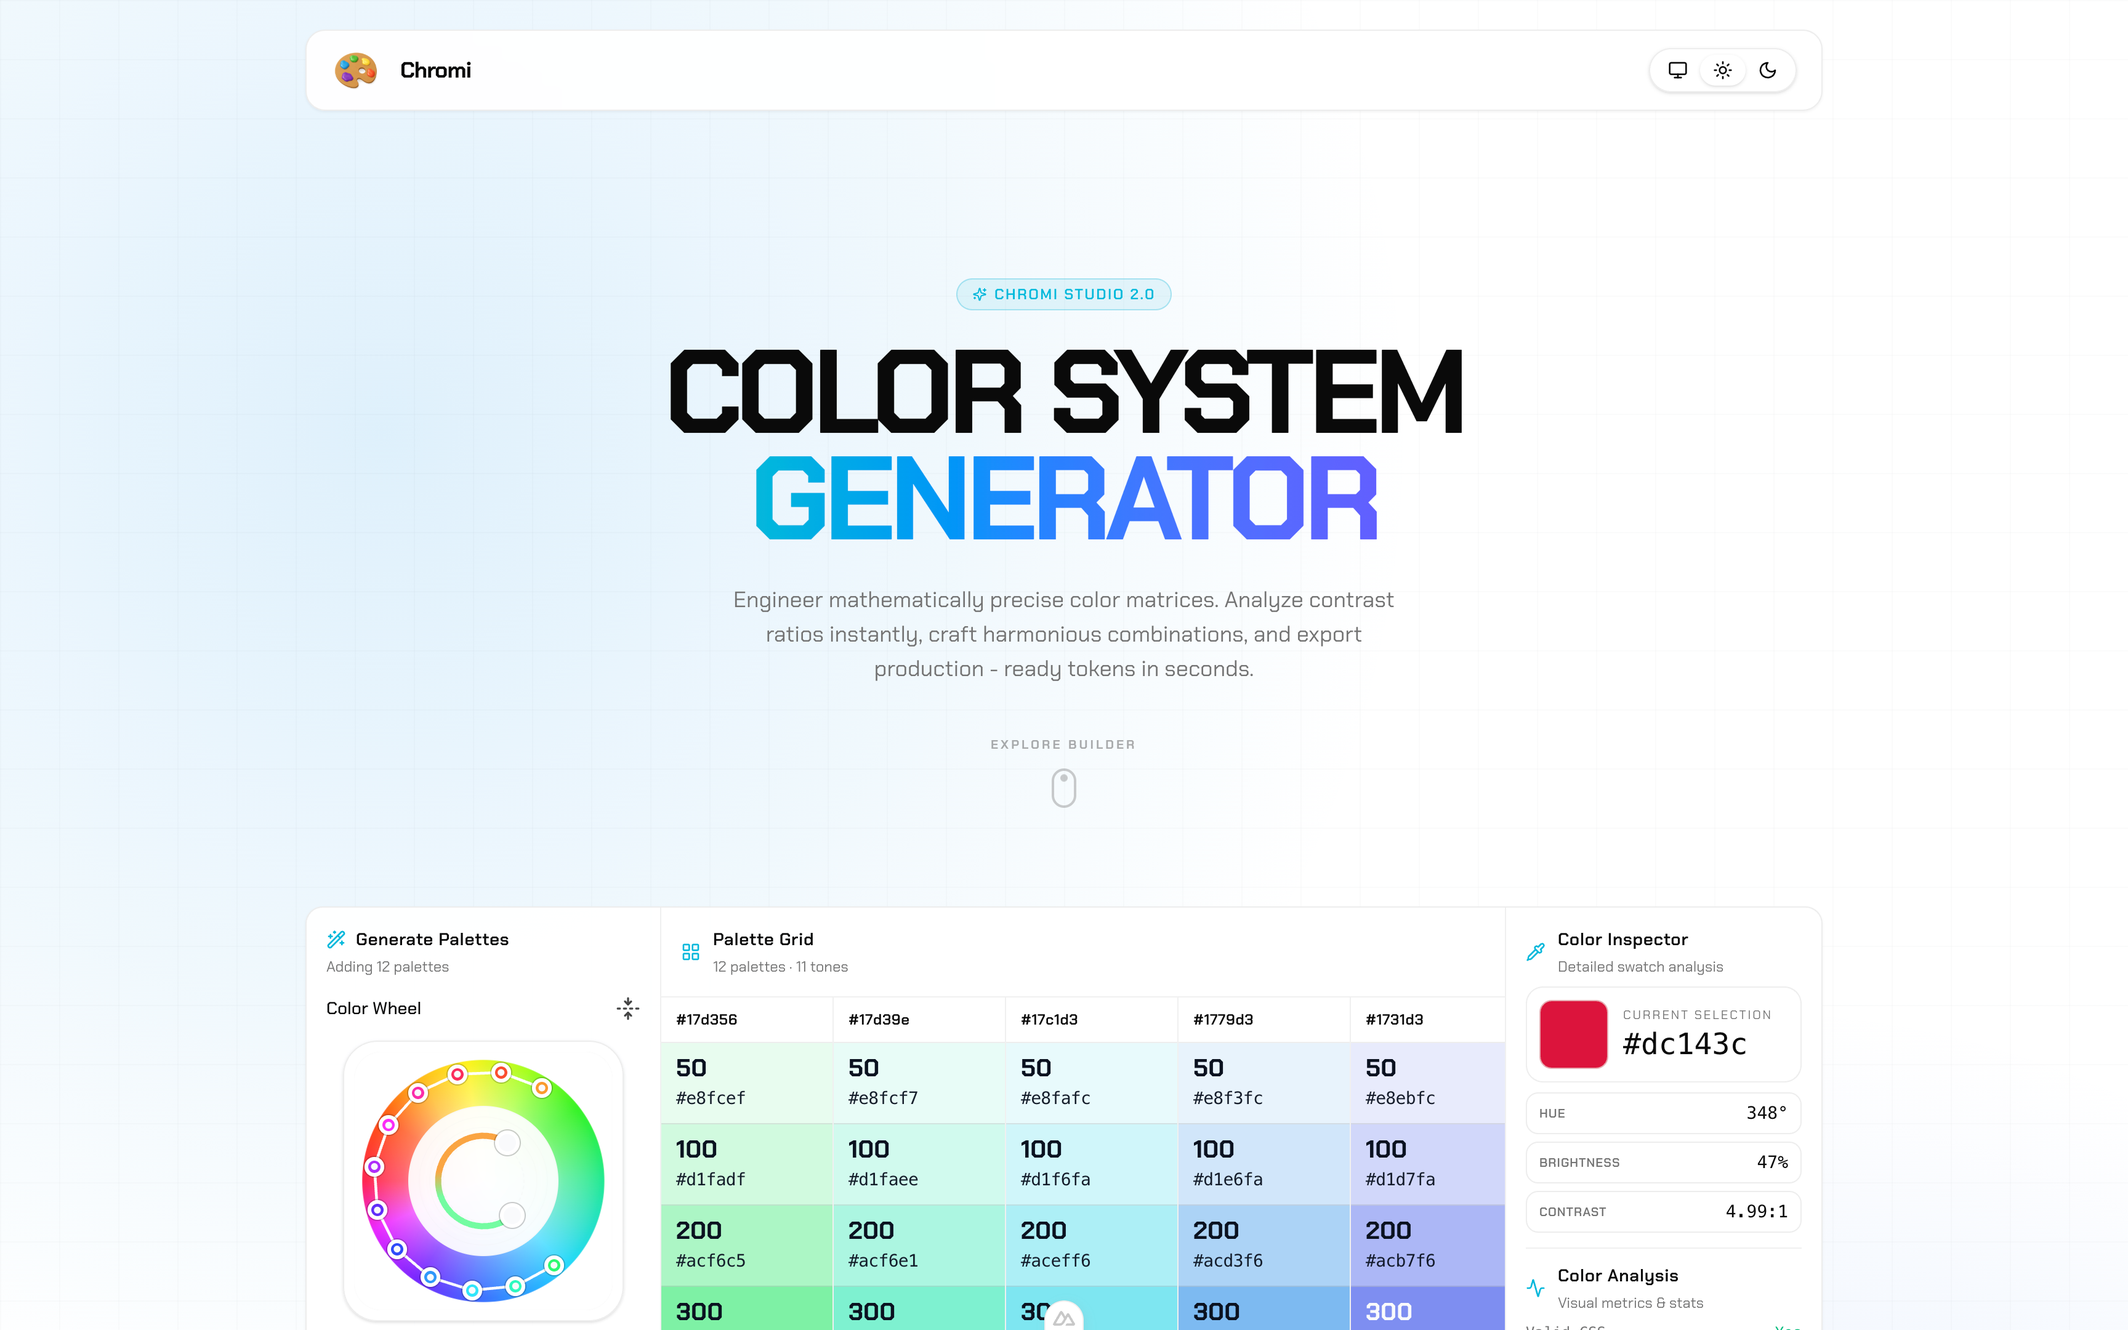
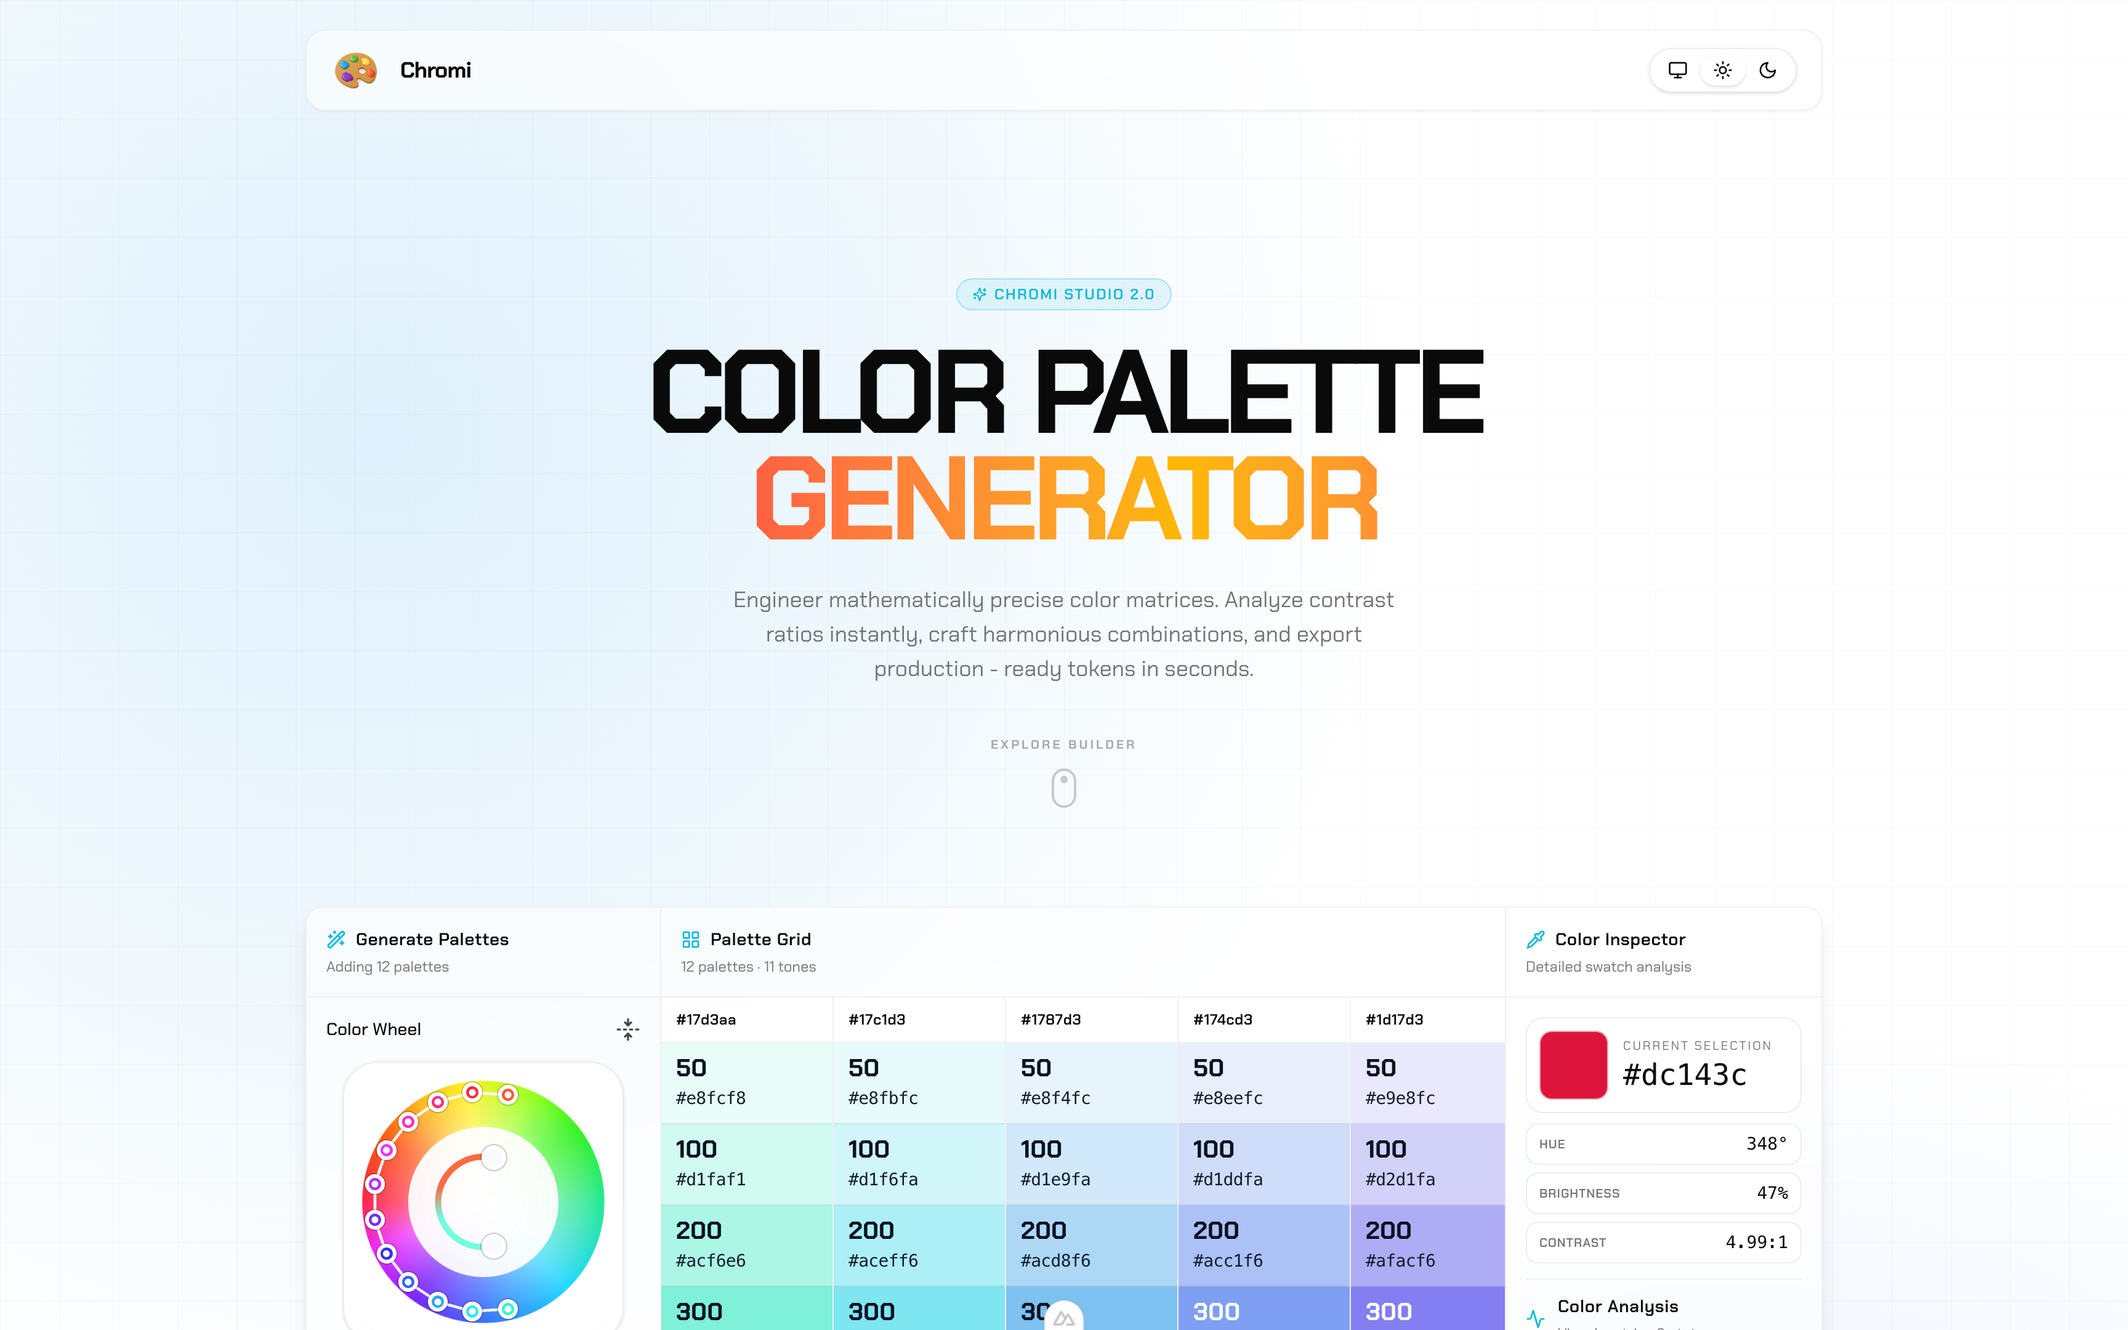
feat: add rainbow shimmer animation and improve UI component styles for better accessibility

diff --git a/app/components/palette/PaletteLeftSidebar.vue b/app/components/palette/PaletteLeftSidebar.vue
@@ -88,40 +88,42 @@
         <div class="space-y-4">
           <div class="grid gap-3 sm:grid-cols-2">
             <div>
-              <label class="mb-1 block text-xs font-medium text-foreground">Hue Start</label>
+              <label for="palette-hue-start" class="mb-1 block text-xs font-medium text-foreground">Hue Start</label>
               <div class="grid grid-cols-[1fr_auto] gap-2">
-                <InputGroup class="h-9 rounded-lg bg-background/70 shadow-sm transition-shadow hover:shadow-md">
-                  <Input :model-value="safeHueStart.toFixed(1)"
-                    class="h-9 rounded-lg border-0 bg-transparent px-2.5 text-sm shadow-none focus-visible:ring-0"
+                <InputGroup class="h-11 rounded-lg bg-background/70 shadow-sm transition-shadow hover:shadow-md">
+                  <Input id="palette-hue-start" :model-value="safeHueStart.toFixed(1)"
+                    class="h-11 rounded-lg border-0 bg-transparent px-2.5 text-sm shadow-none focus-visible:ring-0"
                     @update:model-value="onHueStartInput" />
                 </InputGroup>
-                <div class="grid h-9 w-9 overflow-hidden rounded-lg border border-border/70 bg-background/65 shadow-sm">
-                  <Button variant="ghost" size="icon" class="h-[17px] w-9 rounded-none border-b border-border/70 group"
-                    @click="nudgeHueStart(0.1)">
+                <div
+                  class="grid h-11 w-11 overflow-hidden rounded-lg border border-border/70 bg-background/65 shadow-sm">
+                  <Button variant="ghost" size="icon" aria-label="Increase Hue Start"
+                    class="h-[22px] w-11 rounded-none border-b border-border/70 group" @click="nudgeHueStart(0.1)">
                     <ChevronUp class="h-3 w-3 opacity-70 group-hover:opacity-100" />
                   </Button>
-                  <Button variant="ghost" size="icon" class="h-[17px] w-9 rounded-none group"
-                    @click="nudgeHueStart(-0.1)">
+                  <Button variant="ghost" size="icon" aria-label="Decrease Hue Start"
+                    class="h-[21px] w-11 rounded-none group" @click="nudgeHueStart(-0.1)">
                     <ChevronDown class="h-3 w-3 opacity-70 group-hover:opacity-100" />
                   </Button>
                 </div>
               </div>
             </div>
             <div>
-              <label class="mb-1 block text-xs font-medium text-foreground">Hue End</label>
+              <label for="palette-hue-end" class="mb-1 block text-xs font-medium text-foreground">Hue End</label>
               <div class="grid grid-cols-[1fr_auto] gap-2">
-                <InputGroup class="h-9 rounded-lg bg-background/70 shadow-sm transition-shadow hover:shadow-md">
-                  <Input :model-value="safeHueEnd.toFixed(1)"
-                    class="h-9 rounded-lg border-0 bg-transparent px-2.5 text-sm shadow-none focus-visible:ring-0"
+                <InputGroup class="h-11 rounded-lg bg-background/70 shadow-sm transition-shadow hover:shadow-md">
+                  <Input id="palette-hue-end" :model-value="safeHueEnd.toFixed(1)"
+                    class="h-11 rounded-lg border-0 bg-transparent px-2.5 text-sm shadow-none focus-visible:ring-0"
                     @update:model-value="onHueEndInput" />
                 </InputGroup>
-                <div class="grid h-9 w-9 overflow-hidden rounded-lg border border-border/70 bg-background/65 shadow-sm">
-                  <Button variant="ghost" size="icon" class="h-[17px] w-9 rounded-none border-b border-border/70 group"
-                    @click="nudgeHueEnd(0.1)">
+                <div
+                  class="grid h-11 w-11 overflow-hidden rounded-lg border border-border/70 bg-background/65 shadow-sm">
+                  <Button variant="ghost" size="icon" aria-label="Increase Hue End"
+                    class="h-[22px] w-11 rounded-none border-b border-border/70 group" @click="nudgeHueEnd(0.1)">
                     <ChevronUp class="h-3 w-3 opacity-70 group-hover:opacity-100" />
                   </Button>
-                  <Button variant="ghost" size="icon" class="h-[17px] w-9 rounded-none group"
-                    @click="nudgeHueEnd(-0.1)">
+                  <Button variant="ghost" size="icon" aria-label="Decrease Hue End"
+                    class="h-[21px] w-11 rounded-none group" @click="nudgeHueEnd(-0.1)">
                     <ChevronDown class="h-3 w-3 opacity-70 group-hover:opacity-100" />
                   </Button>
                 </div>
@@ -130,17 +132,19 @@
           </div>
 
           <div>
-            <label class="mb-2 block text-xs font-medium text-foreground">Saturation ({{ safeSaturation }}%)</label>
-            <Slider :model-value="[safeSaturation]" :min="0" :max="100" :step="1" class="w-full"
-              @update:model-value="onSaturationChange" />
+            <label id="palette-saturation-label" class="mb-2 block text-xs font-medium text-foreground">Saturation ({{
+              safeSaturation }}%)</label>
+            <Slider aria-labelledby="palette-saturation-label" :model-value="[safeSaturation]" :min="0" :max="100"
+              :step="1" class="w-full" @update:model-value="onSaturationChange" />
             <p class="mt-2 text-[10px] text-muted-foreground leading-tight">Adjust all chromas uniformly across columns.
             </p>
           </div>
 
           <div class="border-t border-border/60 pt-3">
-            <label class="mb-2 block text-xs font-medium text-foreground">Variations ({{ safeVariations }})</label>
-            <Slider :model-value="[safeVariations]" :min="2" :max="MAX_VARIATIONS" :step="1" class="w-full"
-              @update:model-value="onVariationsChange" />
+            <label id="palette-variations-label" class="mb-2 block text-xs font-medium text-foreground">Variations ({{
+              safeVariations }})</label>
+            <Slider aria-labelledby="palette-variations-label" :model-value="[safeVariations]" :min="2"
+              :max="MAX_VARIATIONS" :step="1" class="w-full" @update:model-value="onVariationsChange" />
           </div>
         </div>
       </div>

diff --git a/app/components/ui/slider/Slider.vue b/app/components/ui/slider/Slider.vue
@@ -1,43 +1,37 @@
 <script setup lang="ts">
-import type { SliderRootEmits, SliderRootProps } from "reka-ui"
-import type { HTMLAttributes } from "vue"
-import { reactiveOmit } from "@vueuse/core"
-import { SliderRange, SliderRoot, SliderThumb, SliderTrack, useForwardPropsEmits } from "reka-ui"
-import { cn } from "@/lib/utils"
+  import type { SliderRootEmits, SliderRootProps } from "reka-ui"
+  import type { HTMLAttributes } from "vue"
+  import { reactiveOmit } from "@vueuse/core"
+  import { computed, useAttrs } from "vue"
+  import { SliderRange, SliderRoot, SliderThumb, SliderTrack, useForwardPropsEmits } from "reka-ui"
+  import { cn } from "@/lib/utils"
 
-const props = defineProps<SliderRootProps & { class?: HTMLAttributes["class"] }>()
-const emits = defineEmits<SliderRootEmits>()
+  const props = defineProps<SliderRootProps & { class?: HTMLAttributes["class"] }>()
+  const emits = defineEmits<SliderRootEmits>()
 
-const delegatedProps = reactiveOmit(props, "class")
+  const attrs = useAttrs() as Record<string, unknown>
+  const thumbA11yAttrs = computed(() => ({
+    'aria-label': typeof attrs['aria-label'] === 'string' ? attrs['aria-label'] : undefined,
+    'aria-labelledby': typeof attrs['aria-labelledby'] === 'string' ? attrs['aria-labelledby'] : undefined,
+  }))
 
-const forwarded = useForwardPropsEmits(delegatedProps, emits)
+  const delegatedProps = reactiveOmit(props, "class")
+
+  const forwarded = useForwardPropsEmits(delegatedProps, emits)
 </script>
 
 <template>
-  <SliderRoot
-    v-slot="{ modelValue }"
-    data-slot="slider"
-    :class="cn(
-      'relative flex w-full touch-none items-center select-none data-[disabled]:opacity-50 data-[orientation=vertical]:h-full data-[orientation=vertical]:min-h-44 data-[orientation=vertical]:w-auto data-[orientation=vertical]:flex-col',
-      props.class,
-    )"
-    v-bind="forwarded"
-  >
-    <SliderTrack
-      data-slot="slider-track"
-      class="bg-muted relative grow overflow-hidden rounded-full data-[orientation=horizontal]:h-1.5 data-[orientation=horizontal]:w-full data-[orientation=vertical]:h-full data-[orientation=vertical]:w-1.5"
-    >
-      <SliderRange
-        data-slot="slider-range"
-        class="bg-primary absolute data-[orientation=horizontal]:h-full data-[orientation=vertical]:w-full"
-      />
+  <SliderRoot v-slot="{ modelValue }" data-slot="slider" :class="cn(
+    'relative flex w-full touch-none items-center select-none data-[disabled]:opacity-50 data-[orientation=vertical]:h-full data-[orientation=vertical]:min-h-44 data-[orientation=vertical]:w-auto data-[orientation=vertical]:flex-col',
+    props.class,
+  )" v-bind="forwarded">
+    <SliderTrack data-slot="slider-track"
+      class="bg-muted relative grow overflow-hidden rounded-full data-[orientation=horizontal]:h-1.5 data-[orientation=horizontal]:w-full data-[orientation=vertical]:h-full data-[orientation=vertical]:w-1.5">
+      <SliderRange data-slot="slider-range"
+        class="bg-primary absolute data-[orientation=horizontal]:h-full data-[orientation=vertical]:w-full" />
     </SliderTrack>
 
-    <SliderThumb
-      v-for="(_, key) in modelValue"
-      :key="key"
-      data-slot="slider-thumb"
-      class="bg-white border-primary ring-ring/50 block size-4 shrink-0 rounded-full border shadow-sm transition-[color,box-shadow] hover:ring-4 focus-visible:ring-4 focus-visible:outline-hidden disabled:pointer-events-none disabled:opacity-50"
-    />
+    <SliderThumb v-for="(_, key) in modelValue" :key="key" data-slot="slider-thumb" v-bind="thumbA11yAttrs"
+      class="bg-white border-primary ring-ring/50 block size-4 shrink-0 rounded-full border shadow-sm transition-[color,box-shadow] hover:ring-4 focus-visible:ring-4 focus-visible:outline-hidden disabled:pointer-events-none disabled:opacity-50" />
   </SliderRoot>
 </template>

diff --git a/app/components/PaletteDisplay.vue b/app/components/PaletteDisplay.vue
@@ -214,7 +214,7 @@
 </script>
 
 <template>
-  <div class="relative min-h-screen w-full overflow-hidden">
+  <div class="relative min-h-screen w-full overflow-x-clip">
     <div class="pointer-events-none absolute inset-0 bg-background" />
     <div
       class="pointer-events-none absolute inset-0 bg-[radial-gradient(circle_at_18%_20%,rgba(14,165,233,0.16),transparent_42%),radial-gradient(circle_at_82%_88%,rgba(59,130,246,0.15),transparent_35%)] dark:bg-[radial-gradient(circle_at_18%_20%,rgba(56,189,248,0.2),transparent_40%),radial-gradient(circle_at_82%_88%,rgba(168,85,247,0.12),transparent_35%)]" />
@@ -229,7 +229,7 @@
       <AppHero />
 
       <div
-        class="grid min-h-[840px] overflow-hidden rounded-xl border border-border/70 bg-card/90 shadow-xs xl:grid-cols-1 2xl:grid-cols-[18rem_minmax(0,1fr)_16rem] animate-in fade-in zoom-in-95 duration-1000 delay-300 ease-out fill-mode-both">
+        class="grid min-h-[840px] overflow-hidden rounded-xl border border-border/50 bg-background/60 shadow-lg backdrop-blur-md xl:grid-cols-1 2xl:grid-cols-[18rem_minmax(0,1fr)_16rem] animate-in fade-in zoom-in-95 duration-1000 delay-300 ease-out fill-mode-both">
         <PaletteLeftSidebar :variations="normalizedVariations" :hue-start="normalizedHueStart"
           :hue-end="normalizedHueEnd" :saturation="normalizedSaturation" :point-saturations="normalizedPointSaturations"
           @randomize-requested="randomizePaletteSettings" @update-variations="updateVariations"
@@ -244,7 +244,7 @@
                 <h2 class="text-sm font-semibold tracking-wide text-foreground">Palette Grid</h2>
               </div>
               <p class="mt-1 text-xs text-muted-foreground">{{ normalizedVariations }} palettes · {{ rowScale.length
-                }} tones</p>
+              }} tones</p>
             </div>
 
             <ScrollArea class="flex-1 border-t border-border/60 bg-card/40">
@@ -253,7 +253,7 @@
                 <div v-for="column in paletteColumns" :key="`col-${column.hue}`"
                   class="border-r border-border/60 last:border-r-0">
                   <div
-                    class="sticky top-0 z-10 border-b border-border/70 bg-background/90 px-3 py-2.5 text-xs font-semibold lowercase tracking-wide text-foreground backdrop-blur-md">
+                    class="sticky top-0 z-10 border-b border-border/50 bg-background/70 px-3 py-2.5 text-xs font-semibold lowercase tracking-wide text-foreground backdrop-blur-md">
                     {{ column.name }}
                   </div>
 

diff --git a/app/components/ui/button/index.ts b/app/components/ui/button/index.ts
@@ -9,16 +9,16 @@ export const buttonVariants = cva(
     variants: {
       variant: {
         default:
-          "bg-primary text-primary-foreground hover:bg-primary/90",
+          "bg-primary text-primary-foreground hover:bg-primary/90 cursor-pointer",
         destructive:
-          "bg-destructive text-white hover:bg-destructive/90 focus-visible:ring-destructive/20 dark:focus-visible:ring-destructive/40 dark:bg-destructive/60",
+          "bg-destructive text-white hover:bg-destructive/90 focus-visible:ring-destructive/20 dark:focus-visible:ring-destructive/40 dark:bg-destructive/60 cursor-pointer",
         outline:
-          "border bg-background shadow-xs hover:bg-accent hover:text-accent-foreground dark:bg-input/30 dark:border-input dark:hover:bg-input/50",
+          "border bg-background shadow-xs hover:bg-accent hover:text-accent-foreground dark:bg-input/30 dark:border-input dark:hover:bg-input/50 cursor-pointer",
         secondary:
-          "bg-secondary text-secondary-foreground hover:bg-secondary/80",
+          "bg-secondary text-secondary-foreground hover:bg-secondary/80 cursor-pointer",
         ghost:
-          "hover:bg-accent hover:text-accent-foreground dark:hover:bg-accent/50",
-        link: "text-primary underline-offset-4 hover:underline",
+          "hover:bg-accent hover:text-accent-foreground dark:hover:bg-accent/50 cursor-pointer",
+        link: "text-primary underline-offset-4 hover:underline cursor-pointer",
       },
       size: {
         "default": "h-9 px-4 py-2 has-[>svg]:px-3",

diff --git a/app/components/AppHero.vue b/app/components/AppHero.vue
@@ -26,9 +26,9 @@
     <h1
       class="relative z-10 text-5xl font-extrabold uppercase leading-[0.9] tracking-tighter text-foreground animate-in fade-in slide-in-from-bottom-6 duration-700 delay-150 ease-out fill-mode-both sm:text-7xl md:text-8xl">
       <slot name="title">
-        Color <br class="sm:hidden" /> System <br />
+        Color <br class="sm:hidden" /> Palette <br />
         <span
-          class="bg-gradient-to-r from-cyan-500 via-blue-500 to-indigo-500 bg-clip-text text-transparent dark:from-cyan-400 dark:via-blue-400 dark:to-indigo-400">
+          class="animate-rainbow-shimmer bg-linear-to-r from-[#ff184a] via-[#ffb800] via-[#a2ff00] via-[#09d7ff] via-[#3272ff] via-[#ea1cff] to-[#ff184a] bg-[length:200%_auto] bg-clip-text text-transparent">
           Generator
         </span>
       </slot>

diff --git a/app/components/AppFooter.vue b/app/components/AppFooter.vue
@@ -13,7 +13,7 @@
 <template>
   <footer class="mt-4 flex justify-center">
     <div
-      class="w-full max-w-7xl rounded-xl border border-border/70 bg-card/80 px-4 py-4 shadow-xs backdrop-blur-xl sm:px-5">
+      class="w-full max-w-7xl rounded-xl border border-border/50 bg-background/60 px-4 py-4 shadow-xs backdrop-blur-md sm:px-5">
       <div class="flex flex-col items-center justify-between gap-4 sm:flex-row">
         <p class="text-sm text-muted-foreground order-2 sm:order-1">
           © {{ new Date().getFullYear() }} Chromi. KurutoDenzeru. All rights reserved.

diff --git a/app/components/AppNavbar.vue b/app/components/AppNavbar.vue
@@ -4,7 +4,7 @@
 
 <template>
   <nav
-    class="mb-6 rounded-2xl border border-border/70 bg-card/95 px-4 py-3 shadow-xs backdrop-blur-xl transition-colors sm:px-5">
+    class="sticky top-4 z-50 mb-6 rounded-2xl border border-border/50 bg-background/60 px-4 py-3 shadow-xs backdrop-blur-md transition-all sm:px-5">
     <div class="flex items-center justify-between gap-4">
       <div class="flex items-center gap-4">
         <div class="relative h-10 w-10 overflow-hidden">

diff --git a/app/assets/css/main.css b/app/assets/css/main.css
@@ -40,6 +40,20 @@
   --color-sidebar-accent-foreground: var(--sidebar-accent-foreground);
   --color-sidebar-border: var(--sidebar-border);
   --color-sidebar-ring: var(--sidebar-ring);
+
+  --animate-rainbow-shimmer: rainbow-shimmer 5s linear infinite;
+
+  @keyframes rainbow-shimmer {
+    0% {
+      background-position: 0% 50%;
+    }
+    50% {
+      background-position: 100% 50%;
+    }
+    100% {
+      background-position: 0% 50%;
+    }
+  }
 }
 
 :root {

diff --git a/app/components/ThemeSwitcher.vue b/app/components/ThemeSwitcher.vue
@@ -75,7 +75,7 @@
       <TabsTrigger v-for="m in modes" :key="m.value" :value="m.value" :class="cn(
         'rounded-full gap-1.5 px-3 text-[11px] uppercase tracking-[0.16em] sm:text-xs',
         iconOnly && 'px-0'
-      )">
+      )" :aria-label="m.label">
         <component :is="m.icon" class="h-4 w-4" />
         <span v-if="!iconOnly">{{ m.label }}</span>
       </TabsTrigger>
